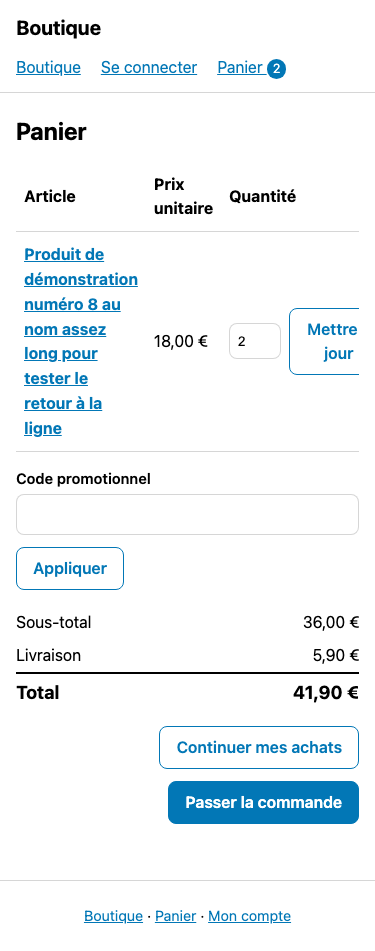
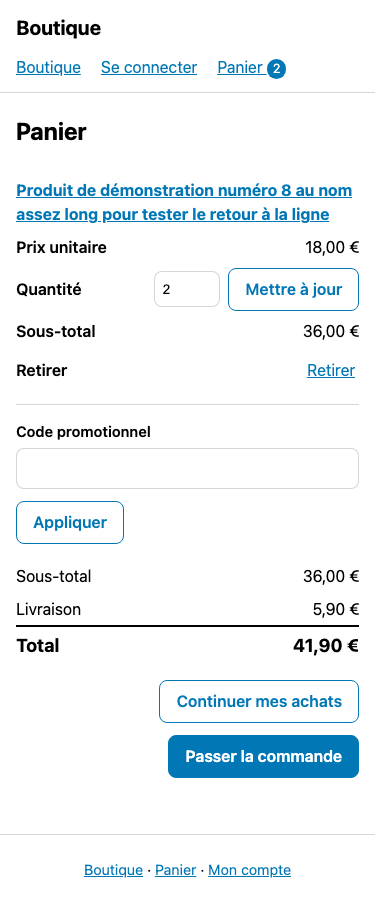
test(boutique): documentation des tests, oracle de portée, captures

diff --git a/tests/portee-des-routes.test.js b/tests/portee-des-routes.test.js
@@ -15,7 +15,7 @@ const legacySiteOfRequest = (db) => (req) => {
     m = /^\/site-web\/sites\/(\d+)(?:\/|$)/.exec(p);
     if (m) return { siteId: Number(m[1]) };
     // Espace du site principal (palier 3, B1) : le site principal est « siteId null » — réservé à l'équipe de l'organisation (jamais à un accès limité à un site)
-    if (/^\/site-web\/principal(?:\/|$)/.test(p)) return { siteId: null };
+    if (/^\/site-web\/(?:principal|boutique)(?:\/|$)/.test(p)) return { siteId: null };
     m = /^\/site-web\/historique\/page\/(\d+)(?:\/|$)/.exec(p);
     if (m) { const r = db.prepare("SELECT site_id FROM mk_landing_pages WHERE id = ?").get(Number(m[1])); return r ? { siteId: r.site_id } : { siteId: null, missing: true }; }
     m = /^\/site-web\/composants\/(\d+)/.exec(p);

diff --git a/docs/KOLAKISA_PROGRAMME20_5_TESTS.md b/docs/KOLAKISA_PROGRAMME20_5_TESTS.md
@@ -1,0 +1,24 @@
+# Programme 20.5 — tests : scénarios et résultats réels
+
+Aucune transaction réelle, aucun appel au vrai Stripe, aucun e-mail réel : bases d'essai jetables, **faux serveur Stripe local** (`STRIPE_API_BASE`), `SMTP_HOST` vide.
+
+## Tests propres au programme (87, tous réussis au dernier passage)
+| Fichier | Tests | Couvre |
+|---|---|---|
+| `programme20-5-boutique-moteur.test.js` | 42 | calculs (remise exacte au centime, taxes TTC/HT, règle la plus précise, zones) ; produits (création, SKU unique par boutique, promo invalide, types non pris en charge refusés, promotion hors période) ; variantes ; catalogue (recherche, catégories + sous-catégories, prix, tri, pagination, jokers neutralisés, brouillons/supprimés invisibles) ; panier (fusion, quantité, stock, variante obligatoire/inconnue/en rupture, version concurrente, produit retiré, jeton d'une autre boutique) ; commande (totaux serveur, stock réservé, historique, **double soumission**, total périmé, **dernier article**, numérique, hors zone, méthode falsifiée, moyen non proposé, boutique fermée) ; coupons (pourcentage, minimum, expiré, restriction, limite, restitution à l'annulation) ; paiement (jamais payé à la création, montant/devise, transitions, paiement manuel réservé, annulation, échec, **confirmation tardive**, expiration, webhook dupliqué/falsifié) ; **isolation** commandes/clients/sessions entre boutiques ; moyens non configurés filtrés |
+| `programme20-5-boutique-serveur.test.js` | 29 | vrai serveur : écrans d'administration (principal + site), produit rattaché à l'adresse et non au corps de requête, lecture/écriture croisée refusées, réglages ; module « Commerce » ; catalogue isolé **par hôte** ; recherche/filtres/pagination/injection ; panier (prix du navigateur ignoré, cookie HttpOnly, quantités absurdes) ; commande Stripe (montant serveur, total falsifié → 409, **double soumission sans seconde session**, retour **sans paiement = non payée**, jeton de consultation, webhook sans signature, **montant falsifié**, webhook valide et rejoué, notifications, remboursement) ; panne Stripe ; paiement manuel + confirmation par l'administrateur ; commande du principal introuvable sur un site ; comptes clients isolés ; réinitialisation de mot de passe à réponse identique ; hôte inconnu |
+| `programme20-5-boutique-builder.test.js` | 12 | familles `product`/`product_archive` (priorité et conditions du moteur existant), modèle d'un autre site jamais appliqué, comportement du blog inchangé, étiquettes `{{product.*}}` + échappement, 5 éléments de page : isolation, sources, boutique fermée, produit inconnu/brouillon/autre site, réglages hostiles neutralisés |
+| `programme20-5-boutique-navigateur.test.js` | 4 | vrai Chrome : ordinateur 1280, tablette 820, mobile 375 — aucun défilement horizontal, contrôles ≥ 34 px, grille repliée, ajout au panier sans rechargement (badge lu du serveur), panier, caisse ; lien d'évitement. Captures : `docs/boutique-captures/` |
+
+Le test navigateur a **trouvé deux défauts réels**, corrigés : défilement horizontal du panier mobile (texte réservé aux lecteurs d'écran positionné hors du conteneur) et liens « Retirer » trop petits ; puis le tableau du panier est devenu une liste de cartes sous 600 px.
+
+## Non-régression (fichiers hors navigateur)
+- Passage large : **199 fichiers, 2 791 tests, 2 773 réussis, 18 échoués**, 0 annulé, 0 ignoré.
+- Les 18 échecs ont été analysés : **16 étaient des attentes codées en dur qui devaient évoluer** (registres de menu : nouvelle section « Boutique » ; liste des familles de modèles ; dernier numéro de migration ; table des écrans `KOLAKISA_REFONTE_CONTENU.md` ; oracle de portée des routes). Ces fichiers ont été mis à jour **en connaissance de cause** puis relancés avec succès : `site-menu-p1a(-unitaire)`, `site-menu-c1(-unitaire)`, `cms-01-navigation`, `cms-interface`, `editeur-modeles-theme`, `palier12-migration-composants-revision`, `site-espace`, `registre-pages`, `portee-des-routes`.
+- `admin-multisite` « aucun fichier du module Marketing modifié » : garde-fou sur les modifications **non commitées** ; il passe une fois les changements commités.
+- `cms-outils` « gros import (120 pages) » : coupure réseau (`ECONNRESET`) sous forte charge de la machine ; **réussi au nouveau passage**, sans lien avec le code modifié.
+- Deux contrôles liés ont dû être mis à jour avant : `widgets-regression.json` (régénéré ; **uniquement** les 5 nouveaux types ajoutés, aucun type existant modifié) et `inventaire-tables-sites.json` (21 nouvelles tables classées).
+- Autres séries relancées et réussies : `widgets-contrat`, `widgets-nouveaux`, `widgets-parts`, `editeur-conformite-widgets`, `theme-builder-serveur`, `paiement-stripe`, `commerce-par-site`, `tunnel-paiement`, `palier17-securite`, `r7-coherence-moteurs`, `domaines-registre`, etc. (296 tests, 3 échecs initiaux = les registres corrigés ci-dessus).
+
+## Non exécuté
+Les ≈ 176 tests navigateur du reste du dépôt, les ≈ 600 fichiers hors du périmètre CMS/commerce/sites, tout test sur la production, tout test contre le vrai Stripe ou un vrai SMTP.
